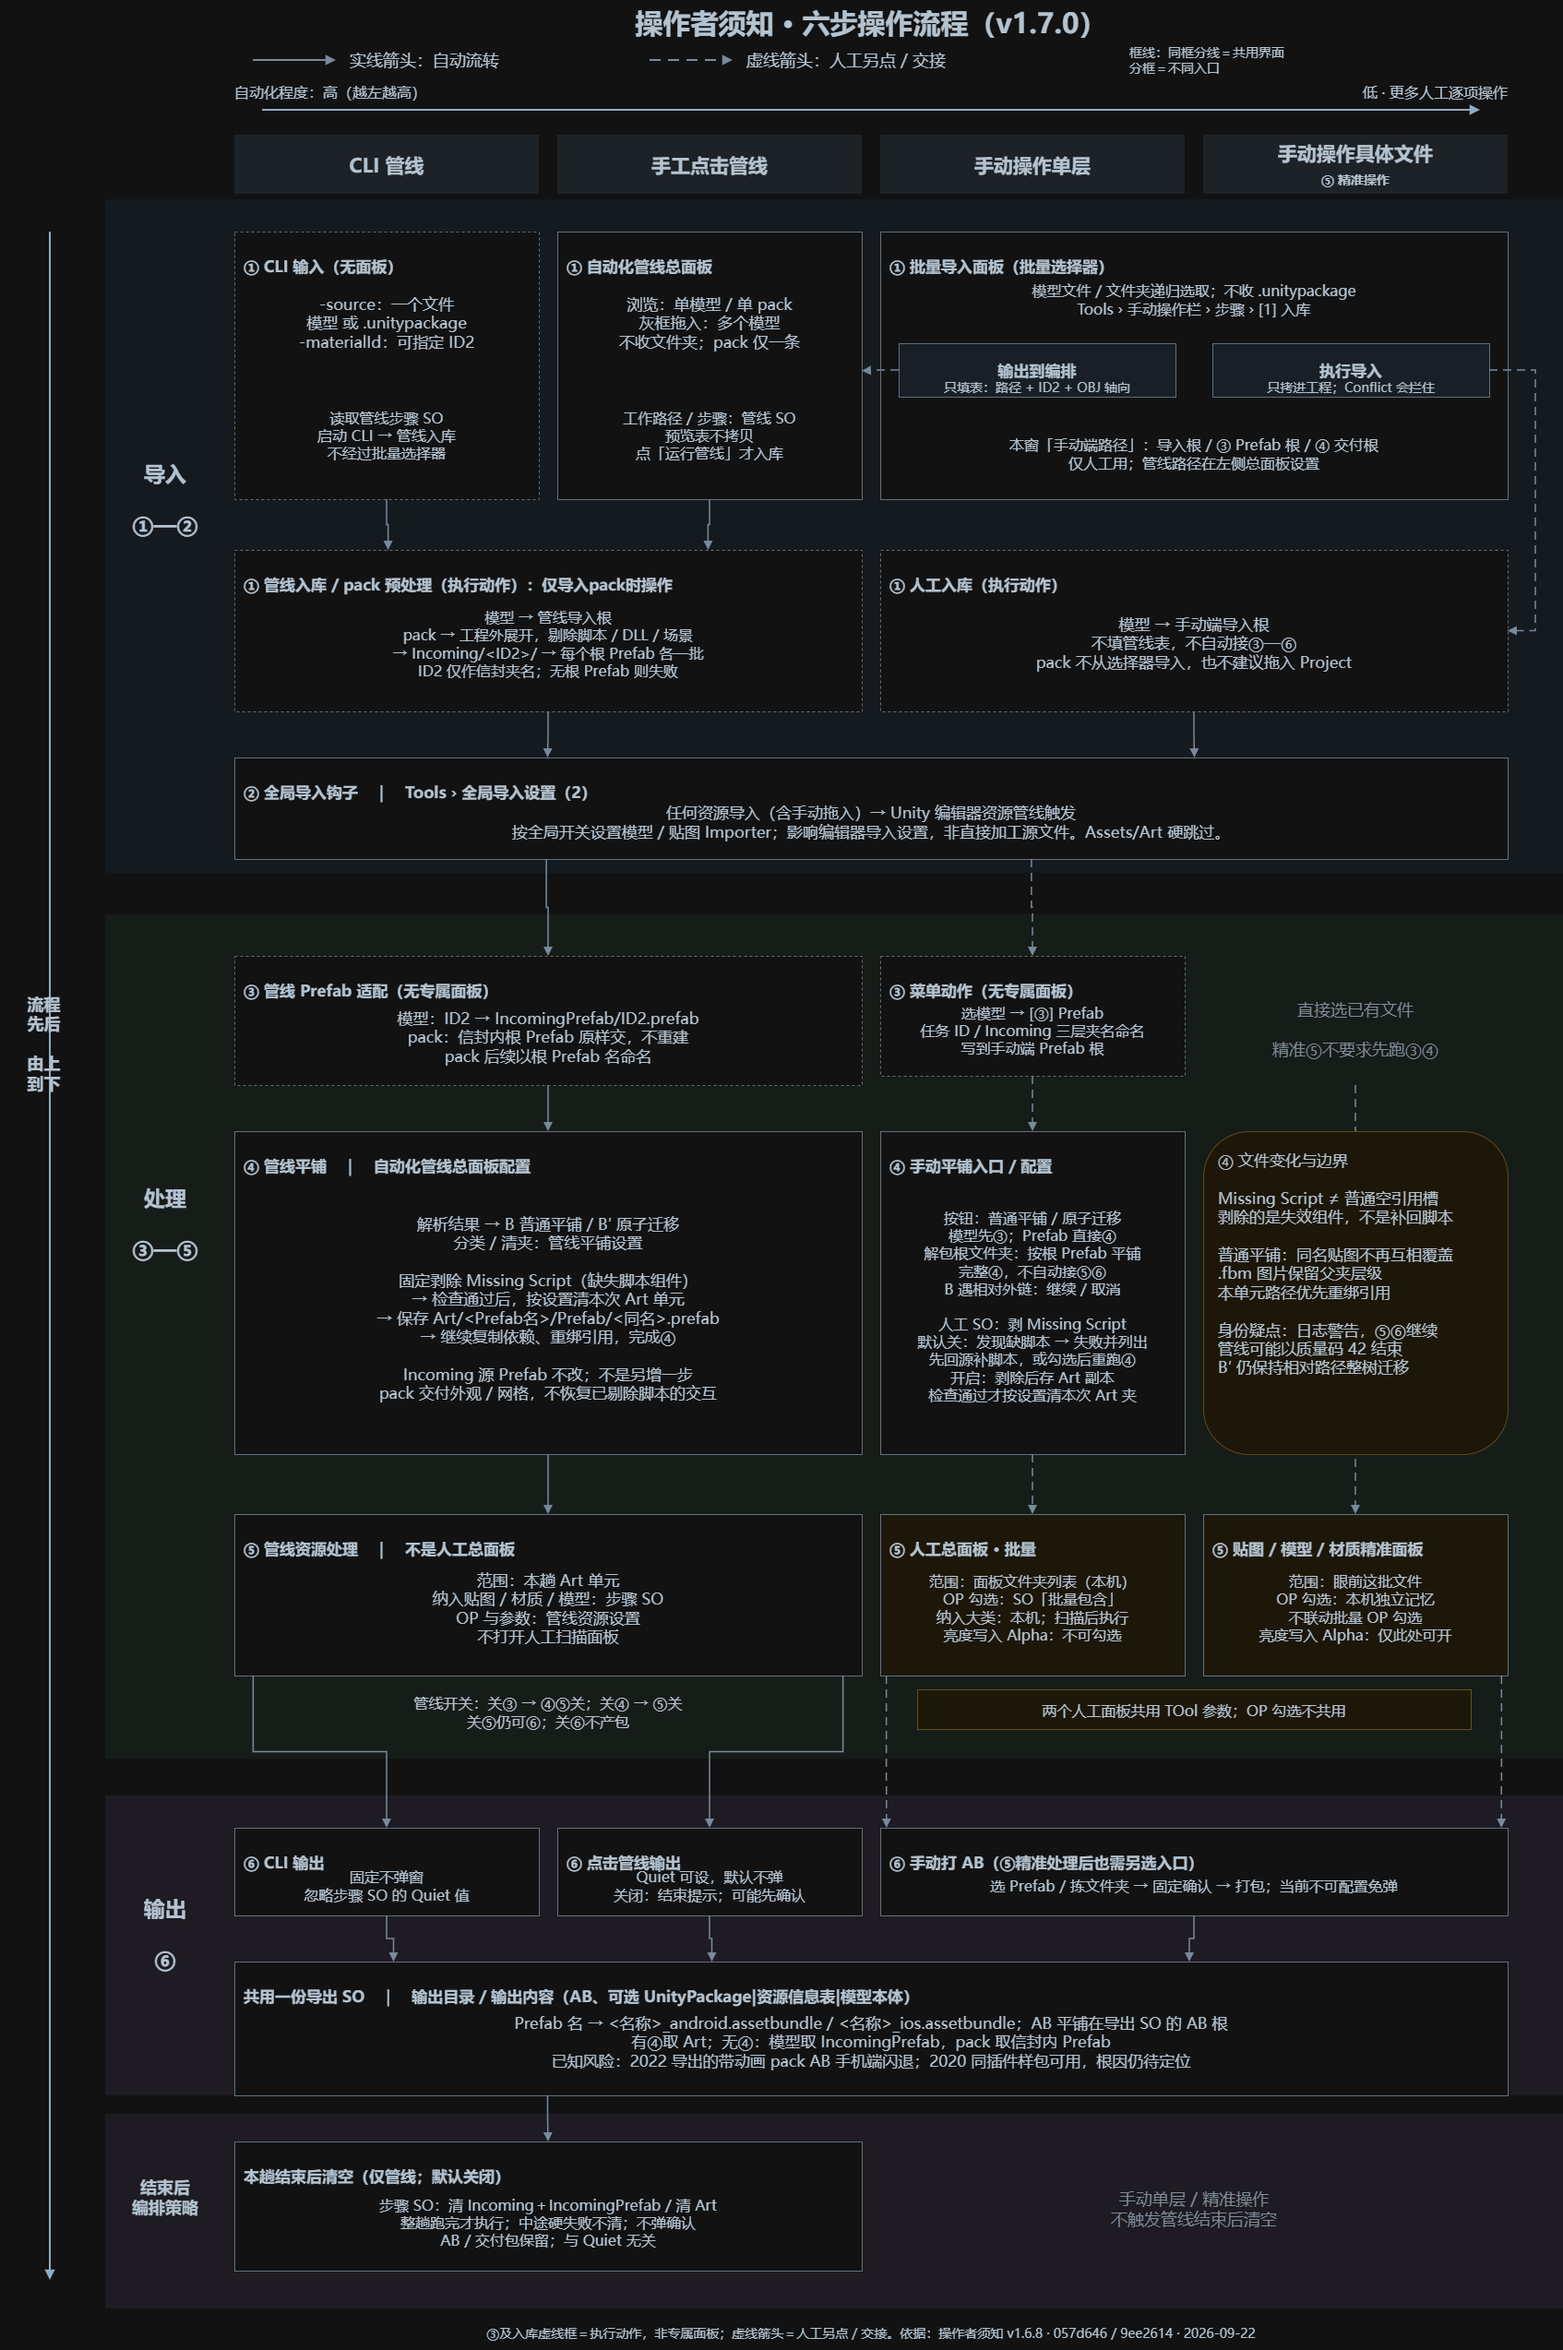
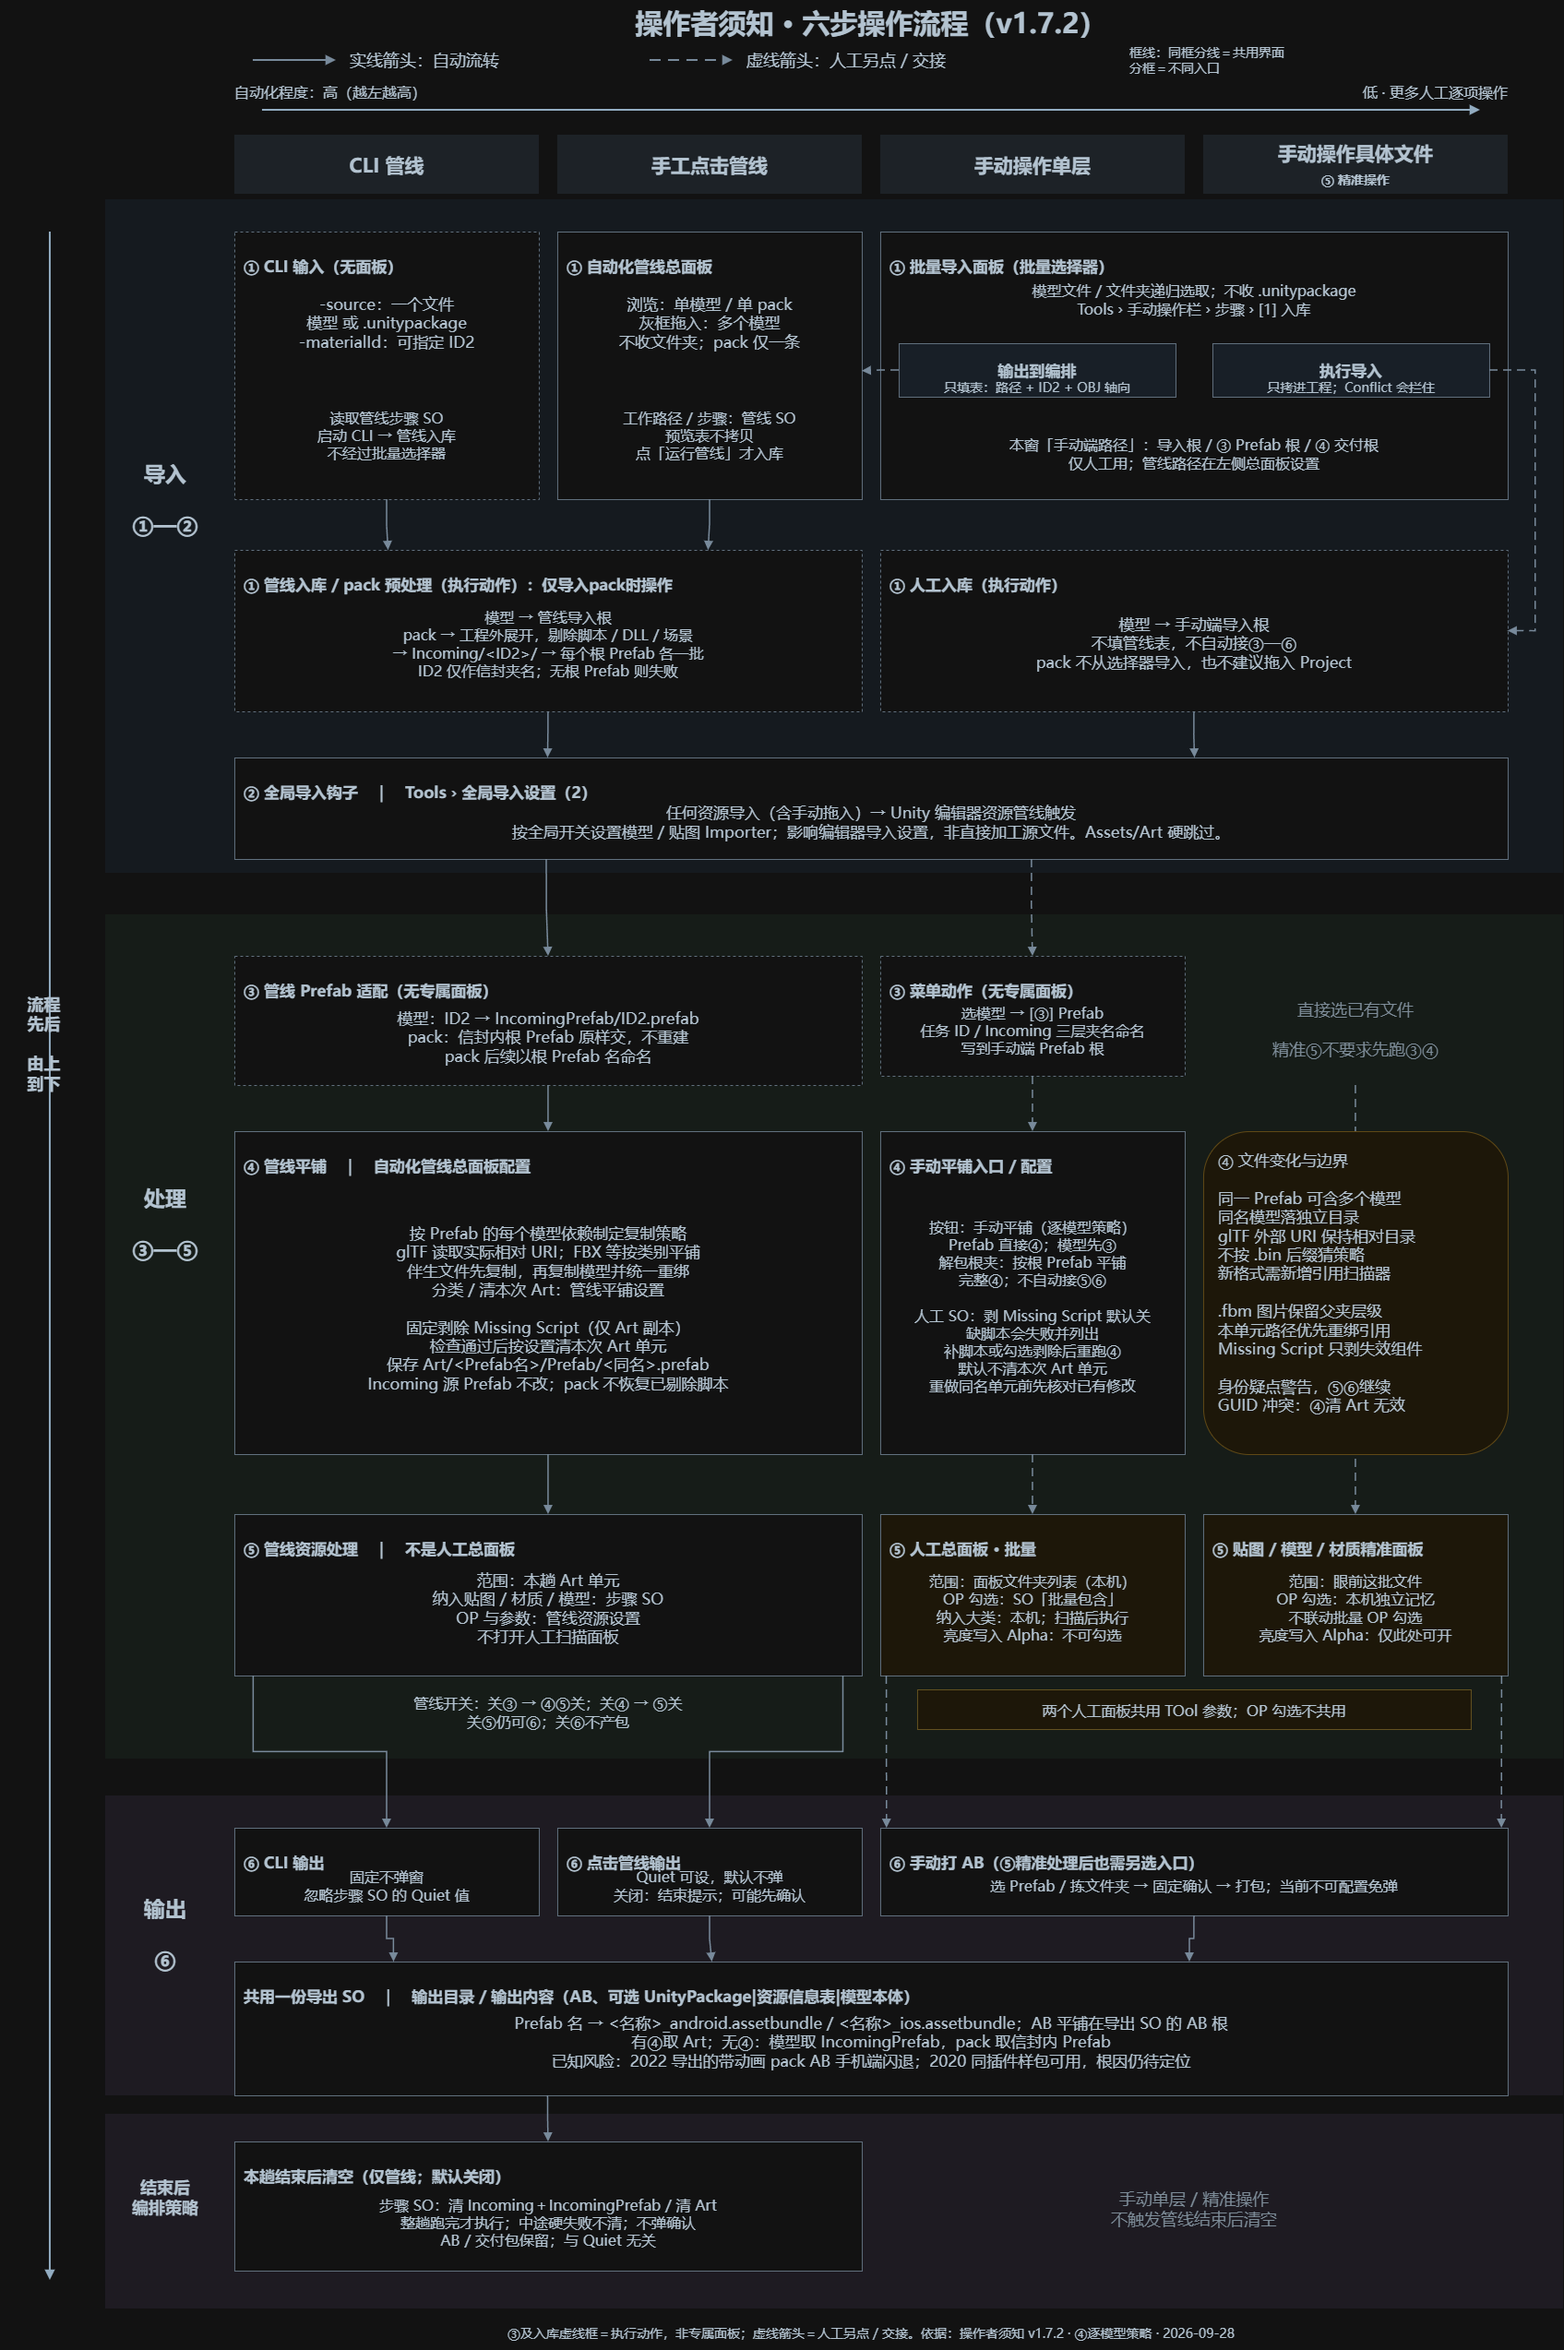
v1.7.2 ④ 逐模型复制策略，⑥ 带出构建错误；操作者流程图更新到 v1.7.2。

diff --git a/docs/dev-wip/05_dev-log/timeline.md b/docs/dev-wip/05_dev-log/timeline.md
@@ -30,7 +30,7 @@
 
 **1. 现在（一句话）**
 
-2026-09-23：**v1.7.0** 为当前推荐。⑥ 在双端 AB 成功后可另写模型文件和资源信息表，默认关；取消「拷到交付夹」仍先构建。手机端加载带 unitypackage 动画的 2022 AB 会闪退，同一套代码迁到 2020 导出可加载。内核未迁目录。
+2026-09-28：**v1.7.2** 为当前推荐。④ 按模型选复制策略（glTF 保相对目录，其余分类），不再整行 B/B′ 互斥；⑥ 返回 null 时带出 Unity 构建错误。v1.7.0 起 ⑥ 在双端 AB 成功后可另写模型文件和资源信息表，默认关。手机端加载带 unitypackage 动画的 2022 AB 会闪退，同一套代码迁到 2020 导出可加载。内核未迁目录。
 
 操作者：[操作者须知](../../operator/README.md)。CLI：[cli-getting-started](../04_implementation/cli-getting-started.md)。队列：[backlog](../03_open-items/backlog.md)。AB：[d1-ab-only](../04_implementation/d1-ab-only.md)。工单 #274 **未回帖**。
 
@@ -71,6 +71,8 @@
 
 | 日期 | 哈希 | 说明 |
 |---|---|---|
+| 2026-09-28 | **v1.7.2** | ④ 逐模型复制策略、删原子搬迁；⑥ 带出构建错误、伴生统一扫描；流程图 v1.7.2 |
+| 2026-09-28 | `68e08dd` | ④ 逐模型策略与 ⑥ 伴生扫描（代码批） |
 | 2026-09-23 | **v1.7.0** | ⑥ 可选模型文件与资源信息表，默认关；拷 AB 到交付夹不跳过构建 |
 | 2026-09-22 | **v1.6.8** | ④ 剥 Missing Script、同名图分落点、本单元路径重绑；测试1112 `exit=0`；主页写明 2022 AB 手机闪退风险 |
 | 2026-09-21 | **v1.6.5** | pack 预处理进信封；三种导入写进操作者须知；⑤保留内置/Art 单元 Shader |
@@ -125,7 +127,8 @@
 
 | 标签 | 提交 | 一句话 |
 |---|---|---|
-| **v1.7.0** | 本批 HEAD | 当前推荐。⑥ 可选模型文件与资源信息表，默认关 |
+| **v1.7.2** | 本批 HEAD | 当前推荐。④ 逐模型复制策略；⑥ 带出构建错误 |
+| **v1.7.0** | `68ca1b8` | ⑥ 可选模型文件与资源信息表，默认关 |
 | **v1.6.8** | `057d646` | ④ 同名不互盖；测试1112 身份闸已关 |
 | **v1.6.5** | `f6e0dbe` | pack 第一刀；操作者三种导入；⑤ Shader 按位置保留 |
 | **v1.6.2** | `f33646d` | 配置拆分、批量闸、跑后清空 |

diff --git a/RetinarBatchBuilder_Share/CHANGELOG.md b/RetinarBatchBuilder_Share/CHANGELOG.md
@@ -2,6 +2,18 @@
 
 记录规则：最新版本写在最上方；每次修改必须填写“原因、改动、影响、验证、回退”。
 
+## 2026-09-28 — v1.7.2：④ 逐模型复制策略，⑥ 带出构建错误
+
+- 原因：同一 Prefab 里 glTF 与其它模型混用时，整行只能在 B（分类拆）和 B′（整包原子搬）之间二选一，任一选法都会拆坏一方。⑥ `BuildAssetBundles` 返回 null 时只留一句「返回 null」，真正错误只在 Console，重编译后丢失。
+- 改动：
+  1. ④ 按 Prefab 的每个模型生成 `ModelUnits`：`ModelRelativeFileProbe` 按格式扫描相对文件（当前注册 glTF），有则保相对目录（单模型沿用 `Art/<名>/<名>/`，混合写 `Model/_gltf_package_<guid>/`），其余分类复制。删除原子搬迁 partial 与「原子迁移（选中）」菜单，手动菜单只剩「手动平铺（逐模型策略）」。
+  2. ⑥ 构建期间收集 Unity 错误（最多 3 条），返回 null 时写进 FailLines；AB 依赖与模型交付改用同一伴生扫描，glTF `.bin` 等相对文件不再漏。
+  3. 操作者须知流程图更新到 v1.7.2；backlog 记入 D27-1（④展开嵌套 Prefab 的丢失源与 Variant 漏口）。
+- 影响：当前推荐线 **v1.7.2**。单模型 glTF 落点与 v1.7.0 相同；FBX/GLB/OBJ 仍分类复制。
+- 验证：本次发布只核对了 diff 与文档，本环境未在 Unity 内重编译、未跑 EditMode 与管线。
+- 回退：回退至标签 `v1.7.0`。
+- 关联问题：prd-docs#274。
+
 ## 2026-09-23 — v1.7.0：⑥ 可选模型文件与资源信息表
 
 - 原因：手动导出 `Assets/Art/测试0002/Prefab/测试0002.prefab` 后，模型文件和顶点/三角面是对的，但表上仍印着模板样例：Renderer 144、材质 14、12 张 2048 贴图，以及「FBX 已交付」。

diff --git a/docs/dev-wip/01_requirements/strategy.md b/docs/dev-wip/01_requirements/strategy.md
@@ -4,7 +4,7 @@
 
 | 项 | 口径 |
 |---|---|
-| 宿主 | Unity 2022.3 `Plugin2022`；插件仓 `Assets/Plugin`；`team` Gitea、`origin` GitHub；推荐 **v1.7.0** |
+| 宿主 | Unity 2022.3 `Plugin2022`；插件仓 `Assets/Plugin`；`team` Gitea、`origin` GitHub；推荐 **v1.7.2** |
 | 线 | 面板/CLI 入库固定开；SO 管③④⑤⑥（默认全开，④⑤可关）。②→③→⑥ 是可裁剪最小线，不是默认 |
 | ④ | 物理在 TOol；自动 `FromContext`→`Run(plan)`；人工选 Branch 组 plan，**禁止** `PipelineJobContext.Build`。两按钮都是完整④，不接⑤⑥。内核不读 ctx、不 Load 管线 SO。旧 3518 行对照删除，禁止先清空 |
 | ⑤ | 代调 L1 `RunMasterBatch`。材质透明在 Material Op，不扩模型 ctx。贴图无条件 NeedsWork 的 Op 见 `AllowMasterBatch` |

diff --git a/README.md b/README.md
@@ -1,7 +1,7 @@
 # Asset Plugin（资源工具集）
 
 Unity Editor 插件：工程外模型 → Incoming → Prefab → Art → 资源处理 → 双端 AssetBundle。  
-宿主：Unity 2022.3（Plugin2022，Built-in RP）。当前推荐标签 **v1.7.0**。  
+宿主：Unity 2022.3（Plugin2022，Built-in RP）。当前推荐标签 **v1.7.2**。  
 远程：Gitea `team`（协作）· GitHub `origin`（备份）
 
 日常：[操作者须知](./docs/operator/README.md)  

diff --git a/docs/dev-wip/README.md b/docs/dev-wip/README.md
@@ -1,7 +1,7 @@
 # 开发者须知
 
 操作者流程不在本层：[操作者须知](../operator/README.md) · 总目：[docs/](../README.md)  
-宿主 Unity 2022.3 Built-in。插件 Git：`Assets/Plugin`。推荐标签 **v1.7.0**。
+宿主 Unity 2022.3 Built-in。插件 Git：`Assets/Plugin`。推荐标签 **v1.7.2**。
 
 下文是现约。历史切片在文末归档，不覆盖本页。
 

diff --git a/docs/operator/README.md b/docs/operator/README.md
@@ -1,4 +1,4 @@
-# 操作者须知（v1.7.0）
+# 操作者须知（v1.7.2）
 
 宿主：Unity 2022.3 Built-in。菜单都在 `Tools`。  
 本文只讲「点哪里、文件叫什么、两套设置别混」。实现与约束见 [开发者须知](../dev-wip/README.md)。  
